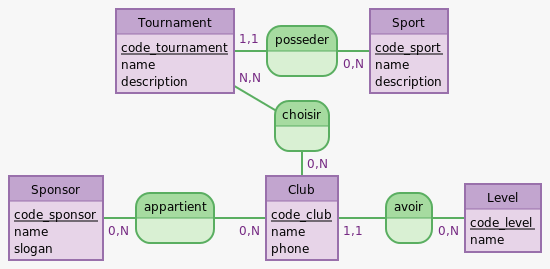
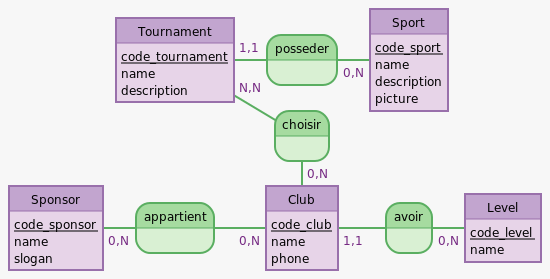
:hammer: database fully operationnal

Changed region(s): [[0.0, 0.0297, 0.9891, 0.9814], [0.68, 0.0, 0.8036, 0.0297], [0.7109, 0.8922, 0.7727, 0.9219]]

diff --git a/app/models/index.js b/app/models/index.js
@@ -22,32 +22,32 @@ Club.belongsTo(Level, {
 });
 
 Sponsor.belongsToMany(Club, {
-  foreignKey: "club_sponsor_id",
-  as: "club",
-  through: "club_has_sponsor",
-  otherKey: "sponsor_id",
-});
-
-// Ici dans le MCD on est en 0,N MAIS on passe par un tableau d'association donc on prendra belongsToMany
-Club.belongsToMany(Sponsor, {
   foreignKey: "sponsor_id",
-  as: "sponsor",
+  as: "club",
   through: "club_has_sponsor",
   otherKey: "club_sponsor_id",
 });
 
+// Ici dans le MCD on est en 0,N MAIS on passe par un tableau d'association donc on prendra belongsToMany
+Club.belongsToMany(Sponsor, {
+  foreignKey: "club_sponsor_id",
+  as: "sponsor",
+  through: "club_has_sponsor",
+  otherKey: "sponsor_id",
+});
+
 Tournament.belongsToMany(Club, {
-  foreignKey: "club_id",
+  foreignKey: "tournament_id",
   as: "club",
   through: "tournament_has_club",
-  otherKey: "tournament_id",
+  otherKey: "club_id",
 });
 
 Club.belongsToMany(Tournament, {
-  foreignKey: "tournament_id",
+  foreignKey: "club_id",
   as: "tournament",
   through: "tournament_has_club",
-  otherKey: "club_id",
+  otherKey: "tournament_id",
 });
 
 Tournament.belongsTo(Sport, {

diff --git a/app/controllers/appController.js b/app/controllers/appController.js
@@ -1,19 +1,13 @@
-const { Club, Level, Sponsor, Sport, Tournament } = require("../models");
+const { Tournament } = require("../models");
 
 const appController = {
   async index(req, res) {
     try {
-      const levels = await Level.findAll();
-      const clubs = await Club.findAll({
-        include: { all: true, nested: true },
-      });
-      const sponsors = await Sponsor.findAll();
-      const sports = await Sport.findAll();
       const tournaments = await Tournament.findAll({
-        include: { all: true, nested: true },
+        include: { all: true, nested: true, asArray: true },
       });
 
-      res.render("index", { levels, sponsors, clubs, sports, tournaments });
+      res.render("index", { tournaments });
     } catch (error) {
       console.log(error.message);
       console.log(error.stacks);

diff --git a/public/stylesheets/style.css b/public/stylesheets/style.css
@@ -2415,6 +2415,11 @@ html {
   margin-bottom: 2.5rem;
 }
 
+.my-2 {
+  margin-top: 0.5rem;
+  margin-bottom: 0.5rem;
+}
+
 .my-5 {
   margin-top: 1.25rem;
   margin-bottom: 1.25rem;
@@ -2480,10 +2485,6 @@ html {
   justify-content: center;
 }
 
-.gap-3 {
-  gap: 0.75rem;
-}
-
 .gap-5 {
   gap: 1.25rem;
 }
@@ -2496,6 +2497,11 @@ html {
 
 .overflow-x-auto {
   overflow-x: auto;
+}
+
+.border-gray-400 {
+  --tw-border-opacity: 1;
+  border-color: rgb(156 163 175 / var(--tw-border-opacity));
 }
 
 .bg-base-100 {
@@ -2552,6 +2558,11 @@ html {
 
 .normal-case {
   text-transform: none;
+}
+
+.text-gray-500 {
+  --tw-text-opacity: 1;
+  color: rgb(107 114 128 / var(--tw-text-opacity));
 }
 
 .text-gray-600 {

diff --git a/app/models/sport.js b/app/models/sport.js
@@ -7,6 +7,7 @@ Sport.init(
   {
     name: DataTypes.TEXT,
     description: DataTypes.TEXT,
+    picture: DataTypes.TEXT,
   },
   {
     sequelize: getConnexion(),
